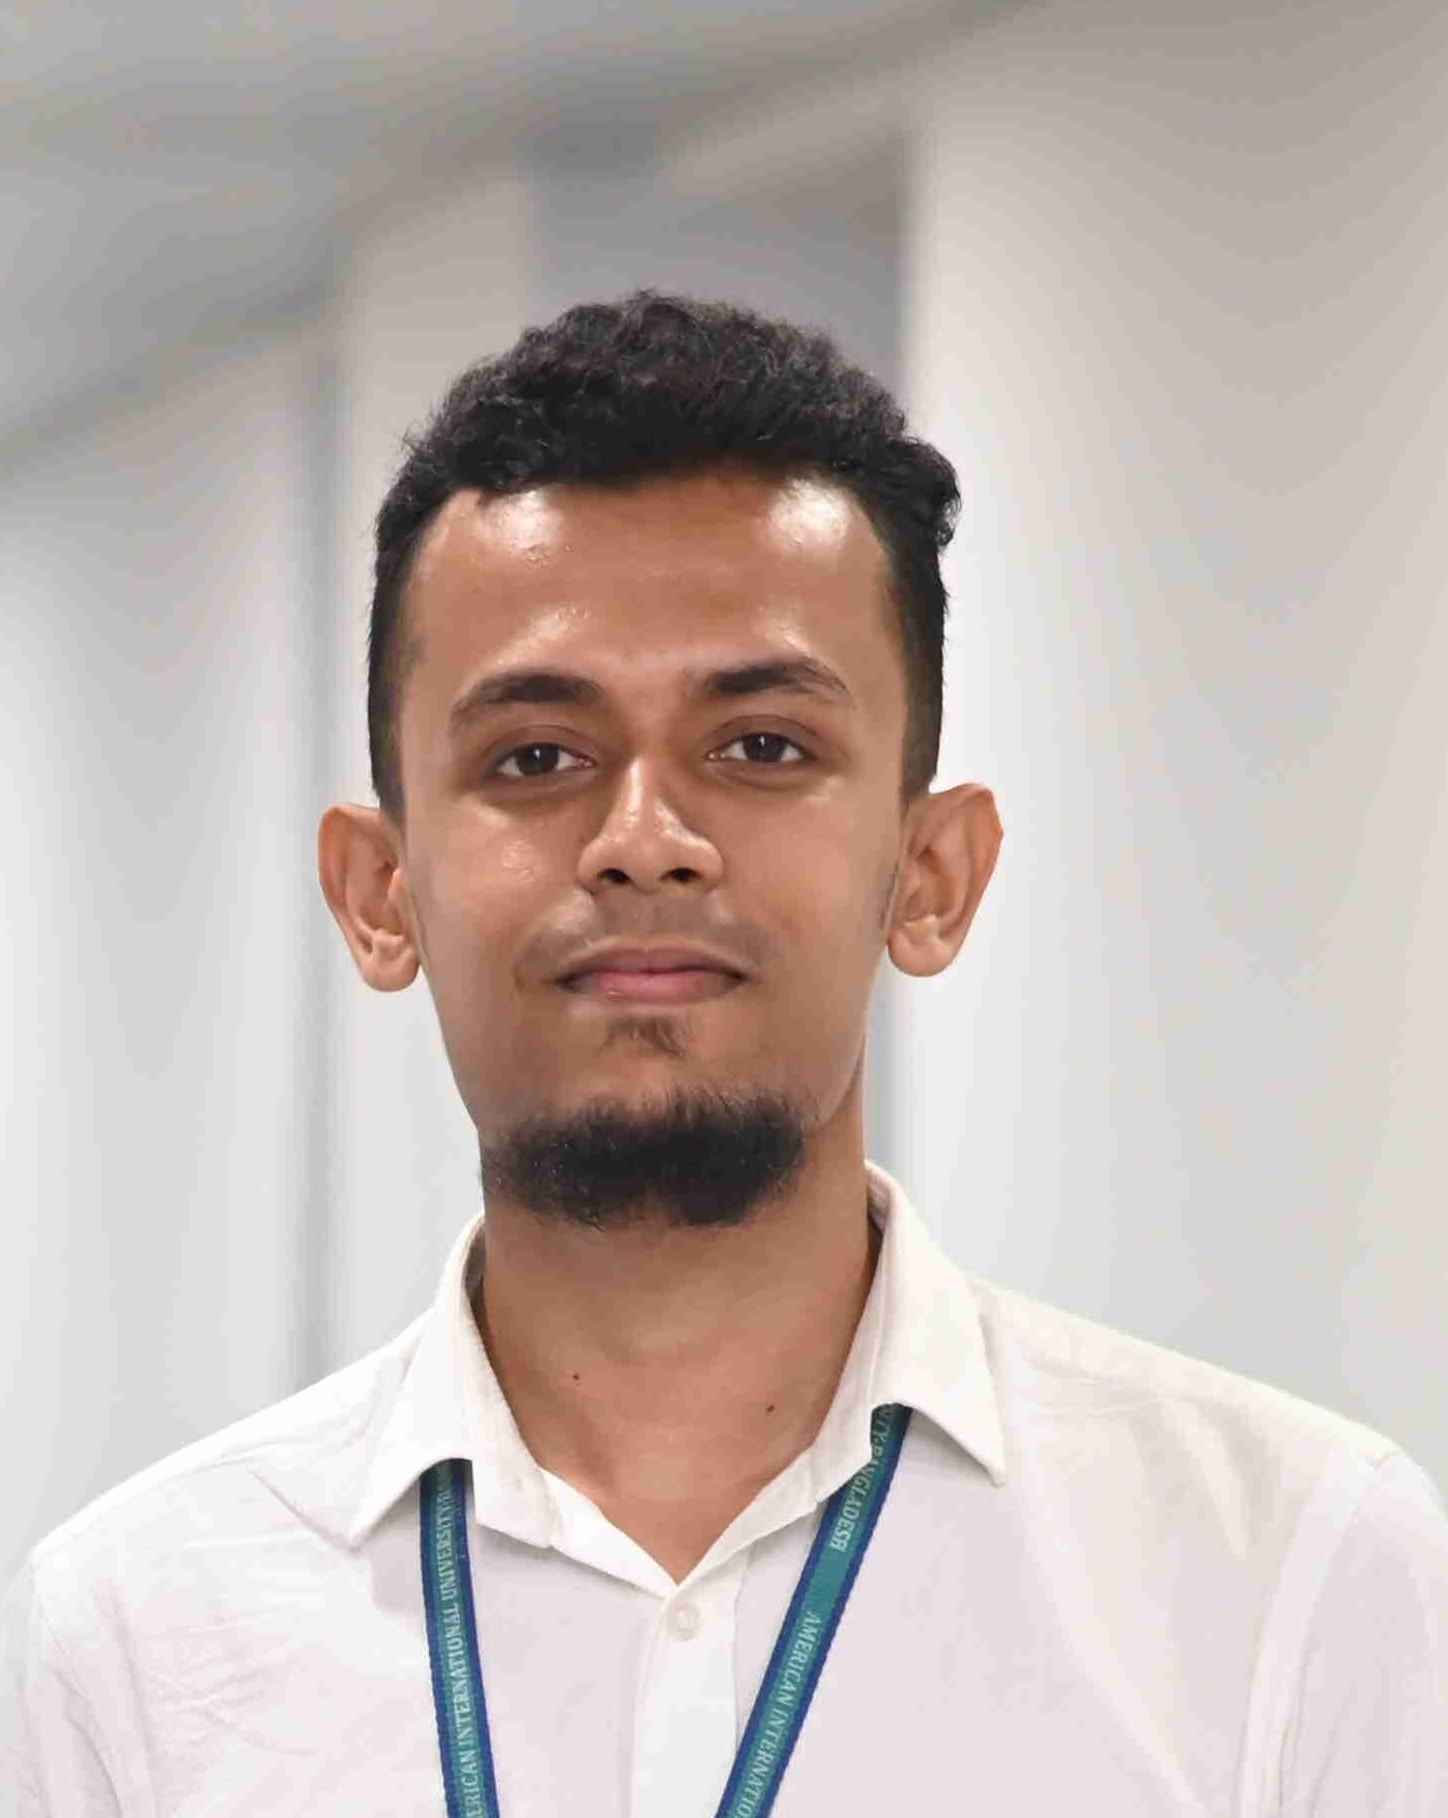
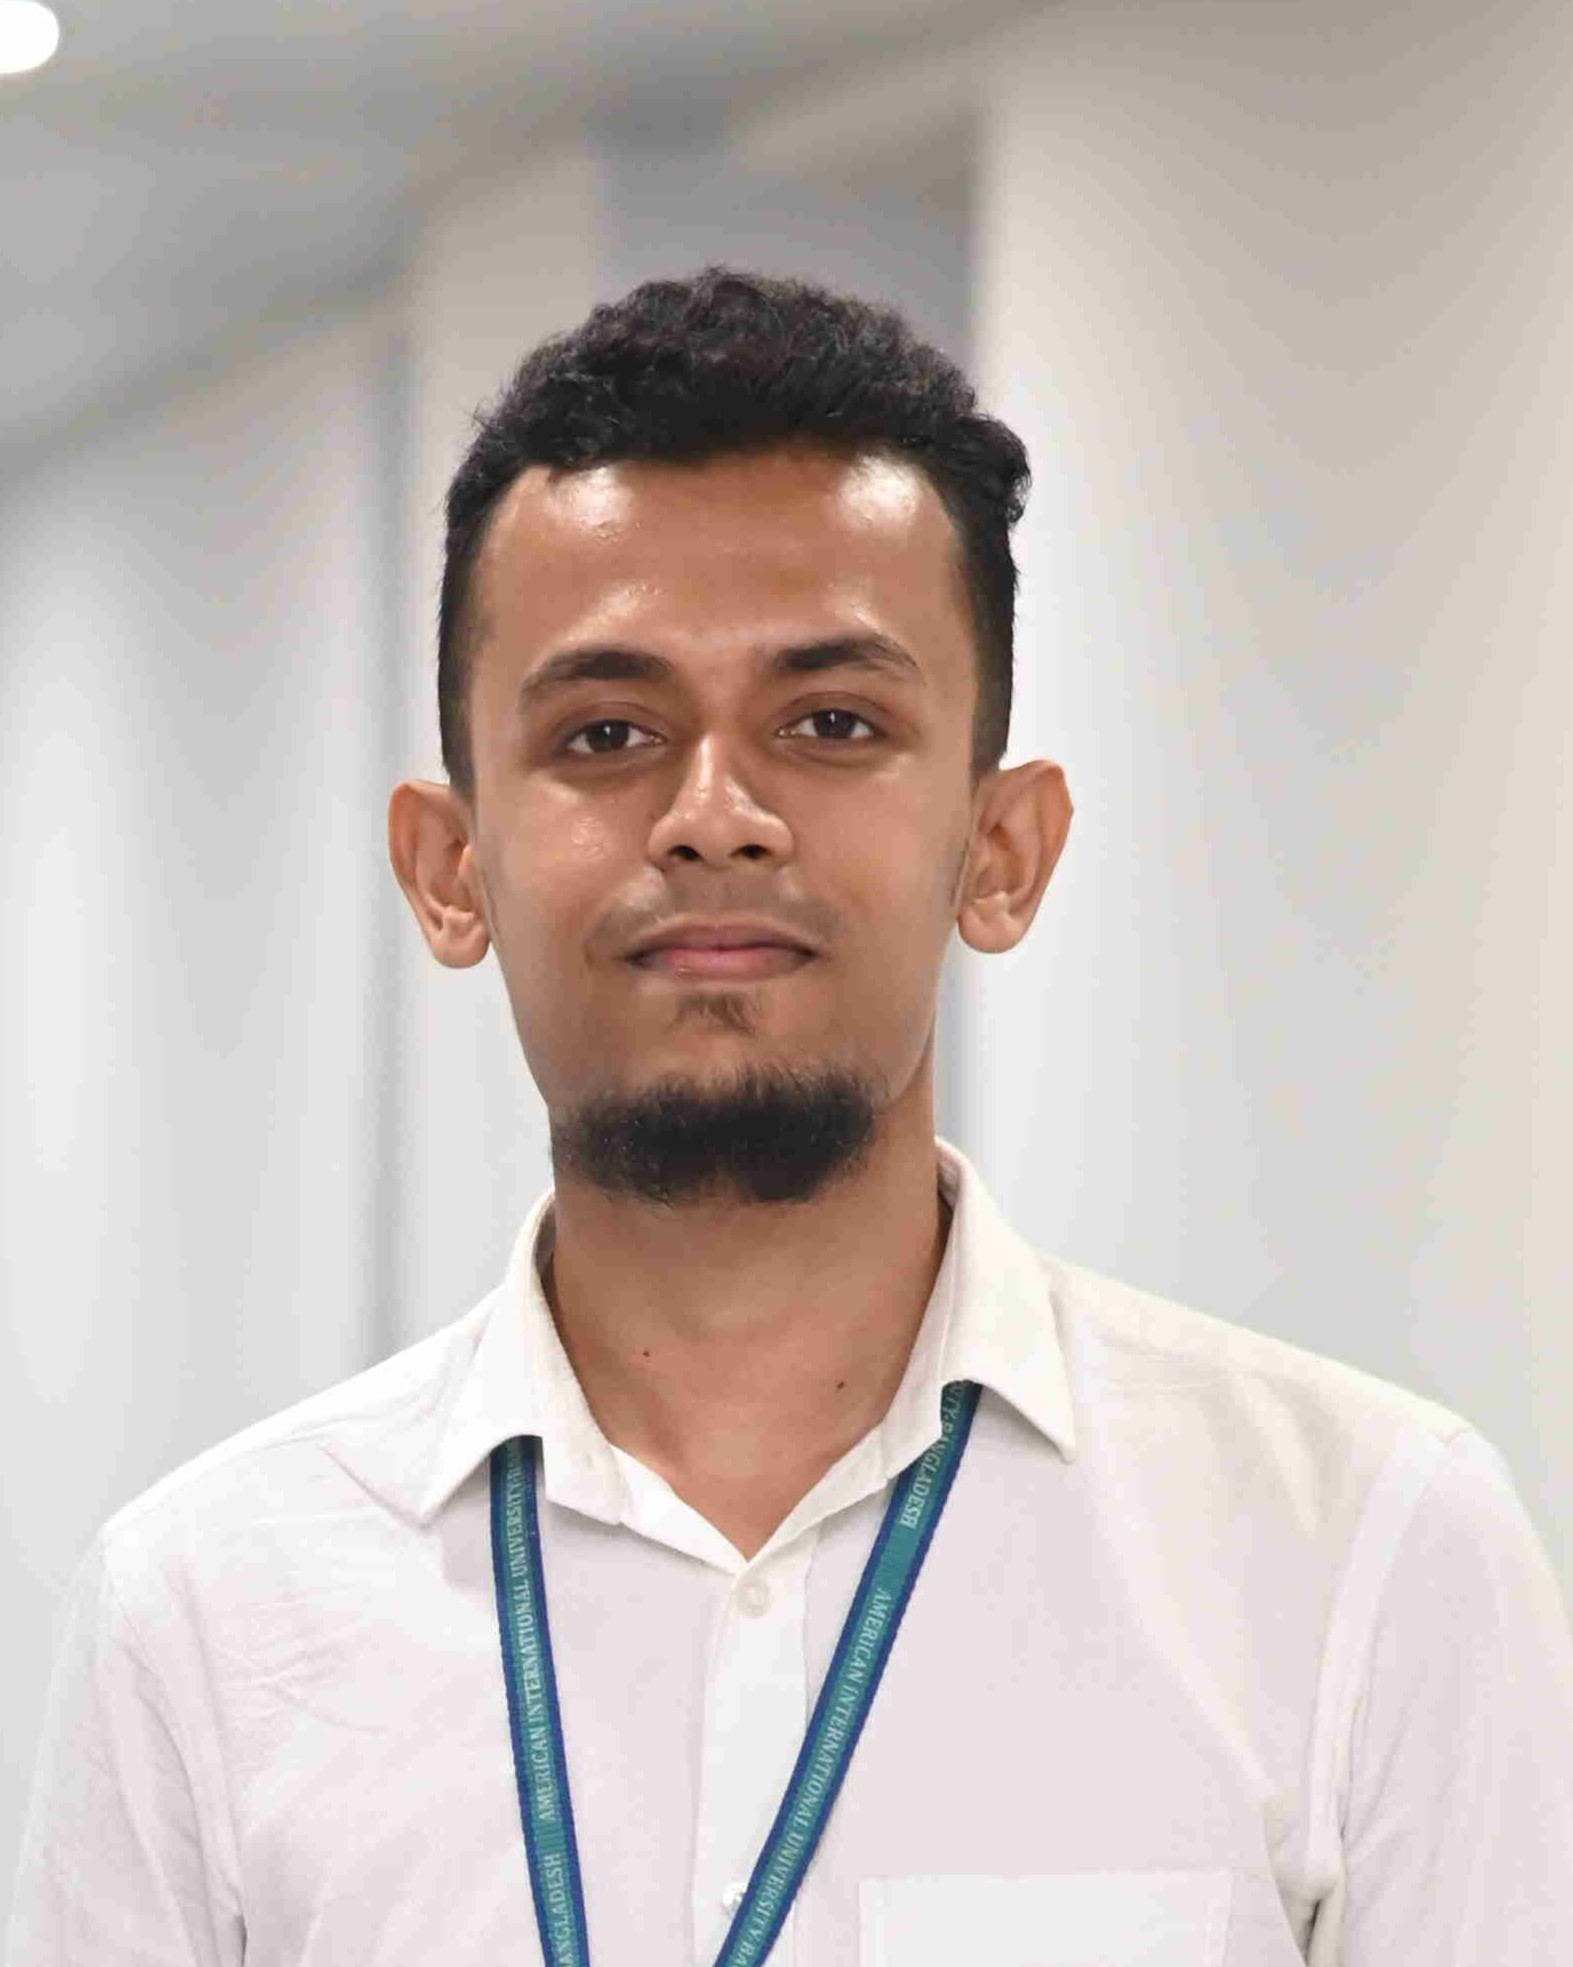
new dp

diff --git a/index.html b/index.html
@@ -135,7 +135,7 @@
                                     <div class="mr-3 shrink-0">
                                         <a href="#" class="block p-2 bg-gray-100 rounded-lg dark:bg-gray-700">
                                             <img class="w-8 h-8 rounded-full"
-                                                src="images/MyPhoto.jpg short final.jpg" alt="User DP">
+                                                src="images/MyPhoto.jpg" alt="User DP">
                                         </a>
                                     </div>
                                     <div>
@@ -226,7 +226,7 @@
                             <div data-popper-arrow></div>
                         </div>
 
-                        <img src="images/DP short final.jpg" alt="Profile Picture"
+                        <img src="images/MyPhoto.jpg" alt="Profile Picture"
                             class="w-full h-full object-cover cursor-pointer">
                     </div>
                 </div>
